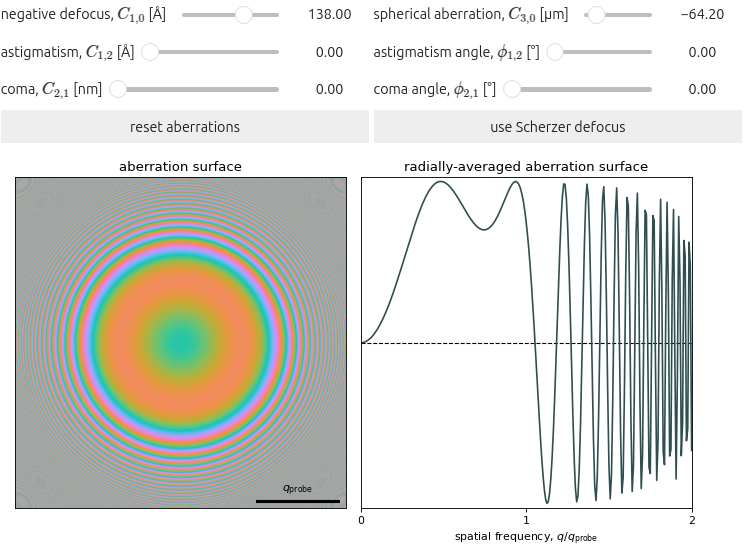
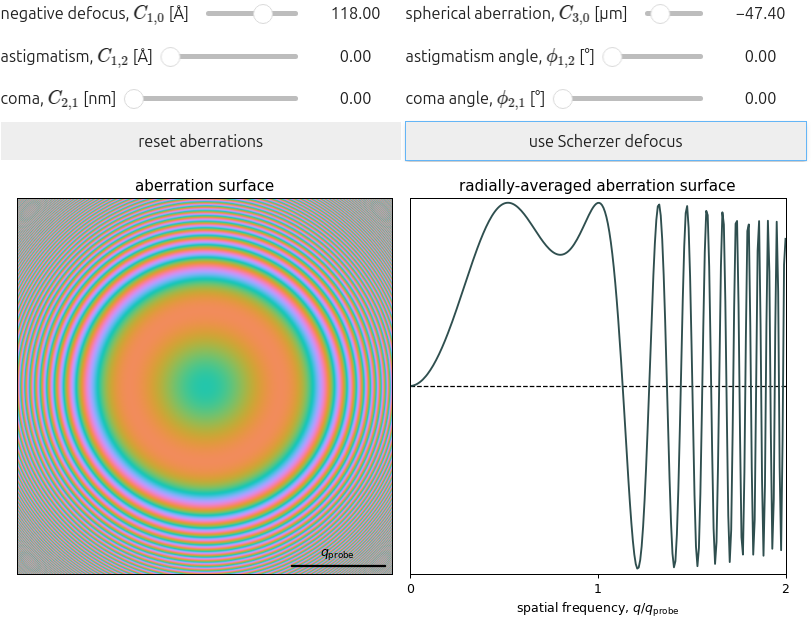
adding pixelated iCOM page

diff --git a/02_pixelated_icom.md b/02_pixelated_icom.md
@@ -1,0 +1,20 @@
+---
+title: Integrated Center of Mass Imaging with a Pixelated Detector
+short_title: Pixelated iCOM CTF
+numbering:
+  enumerator: 2.%s
+label : pixelated_icom_page
+---
+
+## To-Dos
+- Introduce analytical iCOM CTF (complex-probe autocorrelation)
+- Introduce test objects and CTF convolution
+- Discuss Scherzer defocus being suboptimal for iCOM
+
+:::{figure} #app:pixelated_icom
+:label: fig_pixelated_icom
+:placeholder: ./figures/pixelated_icom_placeholder.png
+Effect of various probe aberrations on the CTF for iCOM imaging with a pixelated detector.
+The resulting CTF is shown on the left panel, with its radial average in the middle panel, and its effect on example weak phase objects on the right panel.
+:::
+
